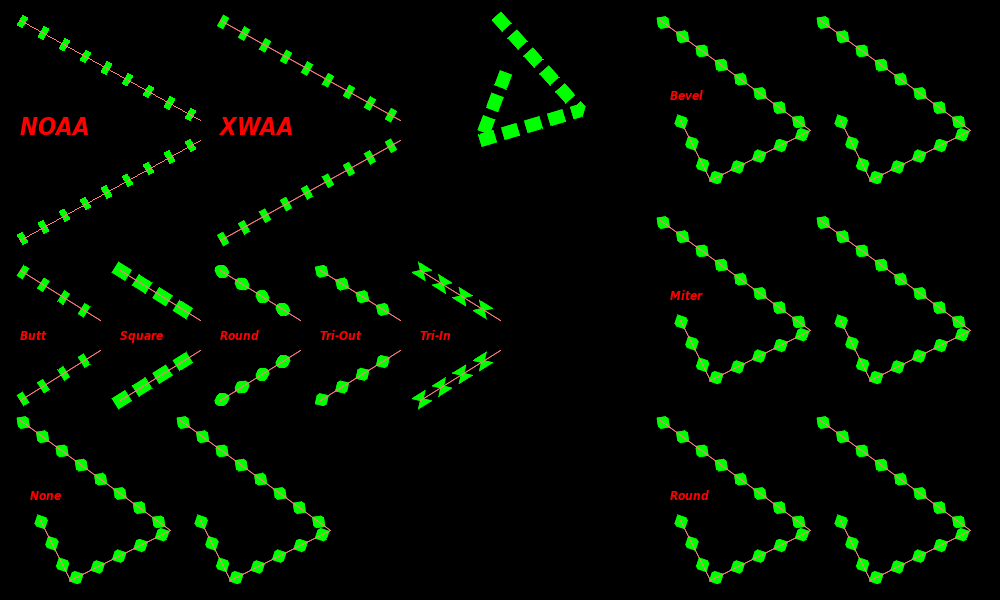
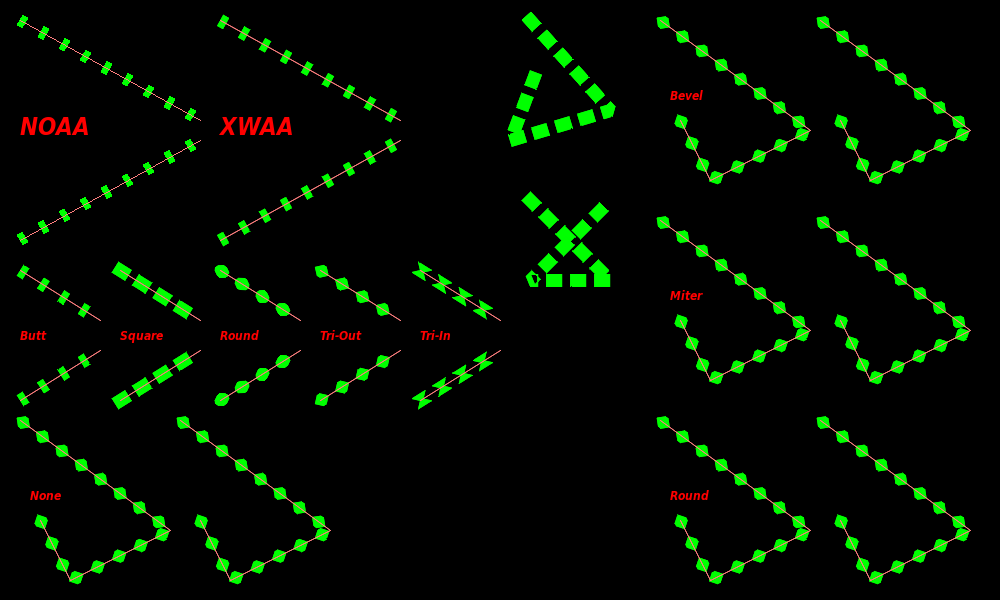
Bug-fix

Changed region(s): [[0.465, 0.03, 0.62, 0.24], [0.527, 0.33, 0.62, 0.48]]

diff --git a/src/Pt-Gfx/Transform.cpp b/src/Pt-Gfx/Transform.cpp
@@ -90,11 +90,11 @@ double Transform::dy() const
 
 void Transform::reset()
 {
-    _mdata[0][0] = 1; 
-    _mdata[0][1] = 0; 
+    _mdata[0][0] = 1;
+    _mdata[0][1] = 0;
     _mdata[0][2] = 0;
-    _mdata[1][0] = 0; 
-    _mdata[1][1] = 1; 
+    _mdata[1][0] = 0;
+    _mdata[1][1] = 1;
     _mdata[1][2] = 0;
     _isIdentity = true;
 }
@@ -110,8 +110,8 @@ void Transform::set(double m11, double m12,
     _mdata[1][0] = m21;
     _mdata[1][1] = m22;
     _mdata[1][2] = dy;
-            
-    _isIdentity = _mdata[0][0] == 1 && _mdata[0][1] == 0 && _mdata[0][2] == 0 && 
+
+    _isIdentity = _mdata[0][0] == 1 && _mdata[0][1] == 0 && _mdata[0][2] == 0 &&
                   _mdata[1][0] == 0 && _mdata[1][1] == 1 && _mdata[1][2] == 0;
 }
 
@@ -126,11 +126,11 @@ void Transform::translate(double x, double y)
     updateMatrix(n);
     _isIdentity = false;
 }
-        
-        
+
+
 void Transform::scale(double x, double y)
 {
-    if(x == 1 && y == 1) 
+    if(x == 1 && y == 1)
       return;
 
     MatrixData n;
@@ -160,7 +160,7 @@ void Transform::rotateDeg(double angle)
 
 
 void Transform::rotateRad(double r)
-{ 
+{
     MatrixData n;
 
     const double s = ::sin(r);
@@ -178,7 +178,7 @@ void Transform::shear(double sh, double sv)
 {
     //TODO: optimize this
     shearX(sh);
-    shearY(sv); 
+    shearY(sv);
 }
 
 
@@ -213,14 +213,14 @@ void Transform::shearY(double deg)
 
 
 bool Transform::operator==(const Transform& m) const
-{ 
-    return memcmp(&_mdata, &m._mdata, sizeof(_mdata)) == 0; 
+{
+    return memcmp(&_mdata, &m._mdata, sizeof(_mdata)) == 0;
 }
 
 
 bool Transform::operator!=(const Transform& m) const
 {
-   return memcmp(&_mdata, &m._mdata, sizeof(_mdata)) != 0; 
+   return memcmp(&_mdata, &m._mdata, sizeof(_mdata)) != 0;
 }
 
 
@@ -249,7 +249,7 @@ PointF Transform::operator*(const PointF& p) const
     return result;
 }
 
-        
+
 SizeF Transform::operator*(const SizeF& sz) const
 {
     SizeF result;
@@ -260,7 +260,7 @@ SizeF Transform::operator*(const SizeF& sz) const
     za = *this * za;
     zb = *this * zb;
     r  = *this * r;
-    
+
     const double dxa = za.x() - r.x();
     const double dya = za.y() - r.y();
     const double dxb = zb.x() - r.x();

diff --git a/src/Pt-Gfx/Polygonizer.cpp b/src/Pt-Gfx/Polygonizer.cpp
@@ -487,13 +487,18 @@ void Polygonizer::renderWidePolyline(std::vector<Polygon>& polygons,
                                       const PointF* points, const std::size_t n,
                                       const Pen& pen)
 {
+    /*
+     * ### TODO ###
+     *     Due to problems with broken corner and self-intersecting polyline,
+     *     shall we simply remove the collision detection and use sagCombinePolygons()
+     *     for all the segments ???
+     */
+
     if( n < 2 )
         return;
 
-    //polygon.reserve( pointCount * 2 );
-
-    bool isSolid = pen.style() == Pen::Solid;
-    bool isClosed = points[0] == points[n - 1];
+    const bool isSolid  = pen.style() == Pen::Solid;
+    const bool isClosed = points[0] == points[n - 1];
 
     if(isSolid) // solid line
     {
@@ -520,7 +525,7 @@ void Polygonizer::renderWideLine(std::vector<Polygon>& polygons,
                                   const PointF& from, const PointF& to,
                                   const Pen& pen)
 {
-    bool isSolid = pen.style() == Pen::Solid;
+    const bool isSolid = pen.style() == Pen::Solid;
 
     if(isSolid)
     {
@@ -807,7 +812,7 @@ bool Polygonizer::satDetectPolygonCollision(const PointF* poly1, size_t poly1Cou
 bool Polygonizer::sagPolygonPoints(PatternState& state, bool draw, const Pen& pen)
 {
     //
-    // ### TODO: !!! BROKEN CORNER DUE TO DUPLICATED SEGMENT(S) !!! ###
+    // ### TODO: !!! BROKEN CORNER !!! ###
     //
 
     // Temporary buffer for the generated points

diff --git a/src/Pt-Gfx/tests/ImagePainterTest2_Draw_Thick.cpp b/src/Pt-Gfx/tests/ImagePainterTest2_Draw_Thick.cpp
@@ -17,6 +17,9 @@ static void testDrawThickLine_impl(
     Pen penText( Color::fromRgb8(255,   0,   0, 175) );
     Pen penRef ( Color::fromRgb8(255, 127, 127, 127) );
 
+    ip2->setPen(penSCapBJoin);
+    //ip2->setPen( Pen(Color::fromRgb8(127, 255, 191, 175), 12, Pen::Solid, Pen::ButtCap) );
+
     // Test corner
     Path      path;
     Transform transform;
@@ -27,11 +30,22 @@ static void testDrawThickLine_impl(
     path.lineTo( PointF( 10,  40) );
     path.close ();
 
-    transform.translate(500, 20);
+    transform.translate(530, 20);
     path.transform(transform);
+    ip2->drawPath(path);
 
-    ip2->setPen(penSCapBJoin);
-    //ip2->setPen( Pen(Color::fromRgb8(127, 255, 191, 175), 12, Pen::Solid, Pen::ButtCap) );
+    // Test intersection
+    path.clear();
+    transform.reset();
+
+    path.moveTo( PointF(  0,   0) );
+    path.lineTo( PointF( 80,  80) );
+    path.lineTo( PointF(  0,  80) );
+    path.lineTo( PointF( 80,   0) );
+    path.close ();
+
+    transform.translate(530, 200);
+    path.transform(transform);
     ip2->drawPath(path);
 
     /*

diff --git a/include/Pt/Gfx/Transform.h b/include/Pt/Gfx/Transform.h
@@ -39,7 +39,7 @@ namespace Gfx {
 
 /** @brief 2D transformation matrix.
   */
-class PT_GFX_API Transform 
+class PT_GFX_API Transform
 {
     public:
         Transform();
@@ -87,16 +87,16 @@ class PT_GFX_API Transform
         Transform& operator*=(const Transform& t);
 
         Transform operator*(const Transform& t) const;
-        
+
         PointF operator*(const PointF& p) const;
-        
+
         SizeF operator*(const SizeF& p) const;
 
     private:
       typedef double MatrixData[2][3];
 
       void updateMatrix(const MatrixData& m);
-  
+
     private:
         MatrixData _mdata;
         bool       _isIdentity;
